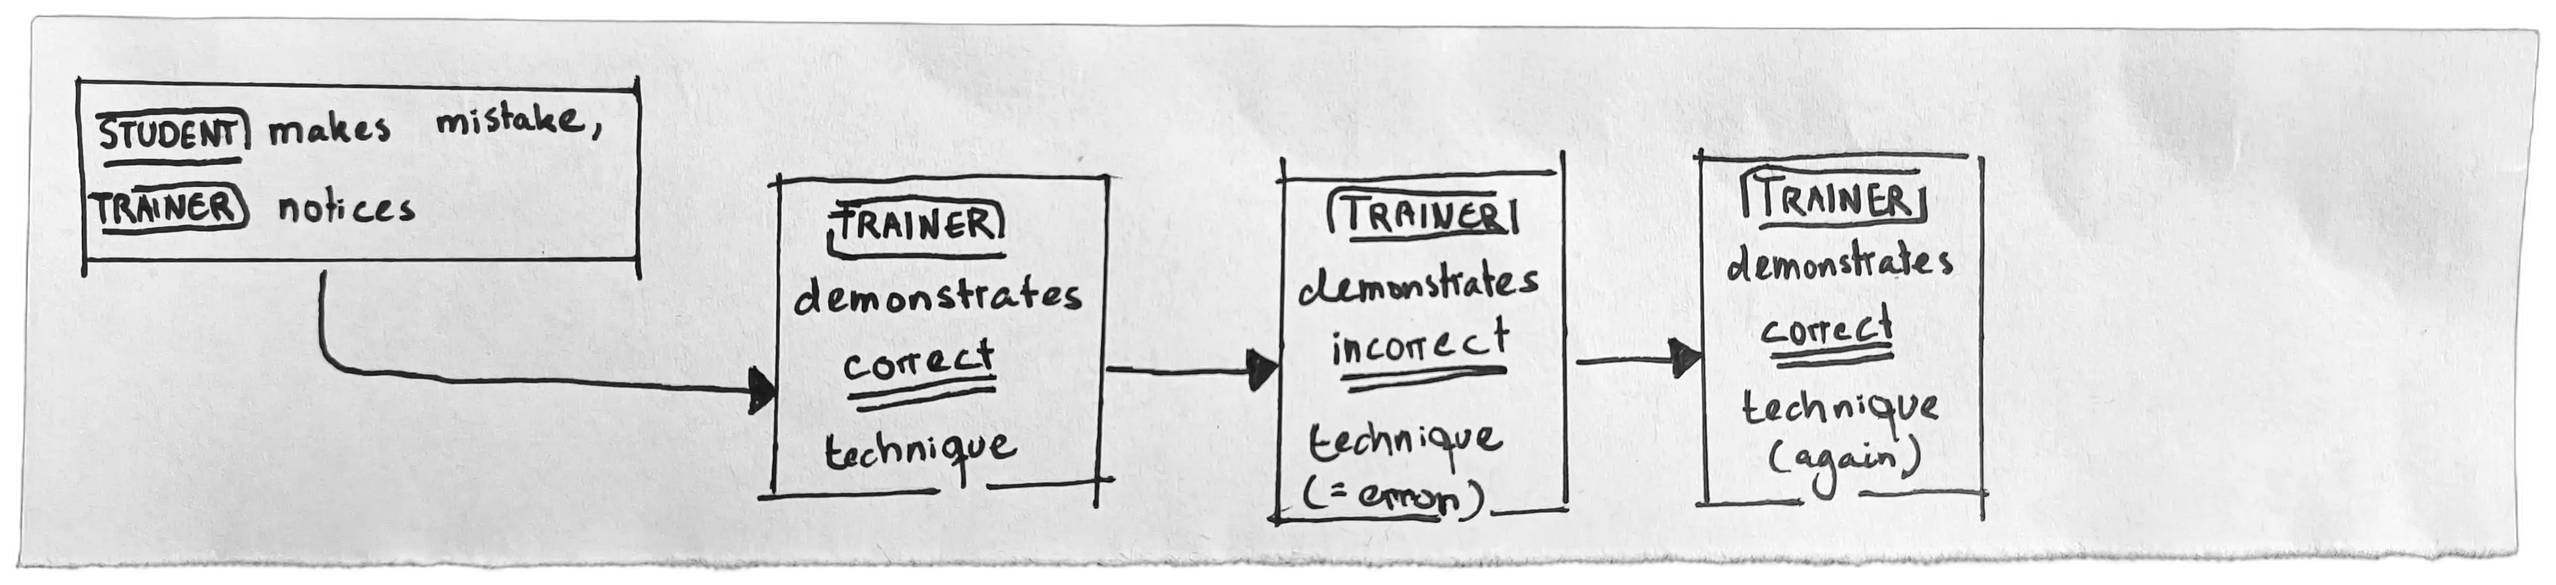
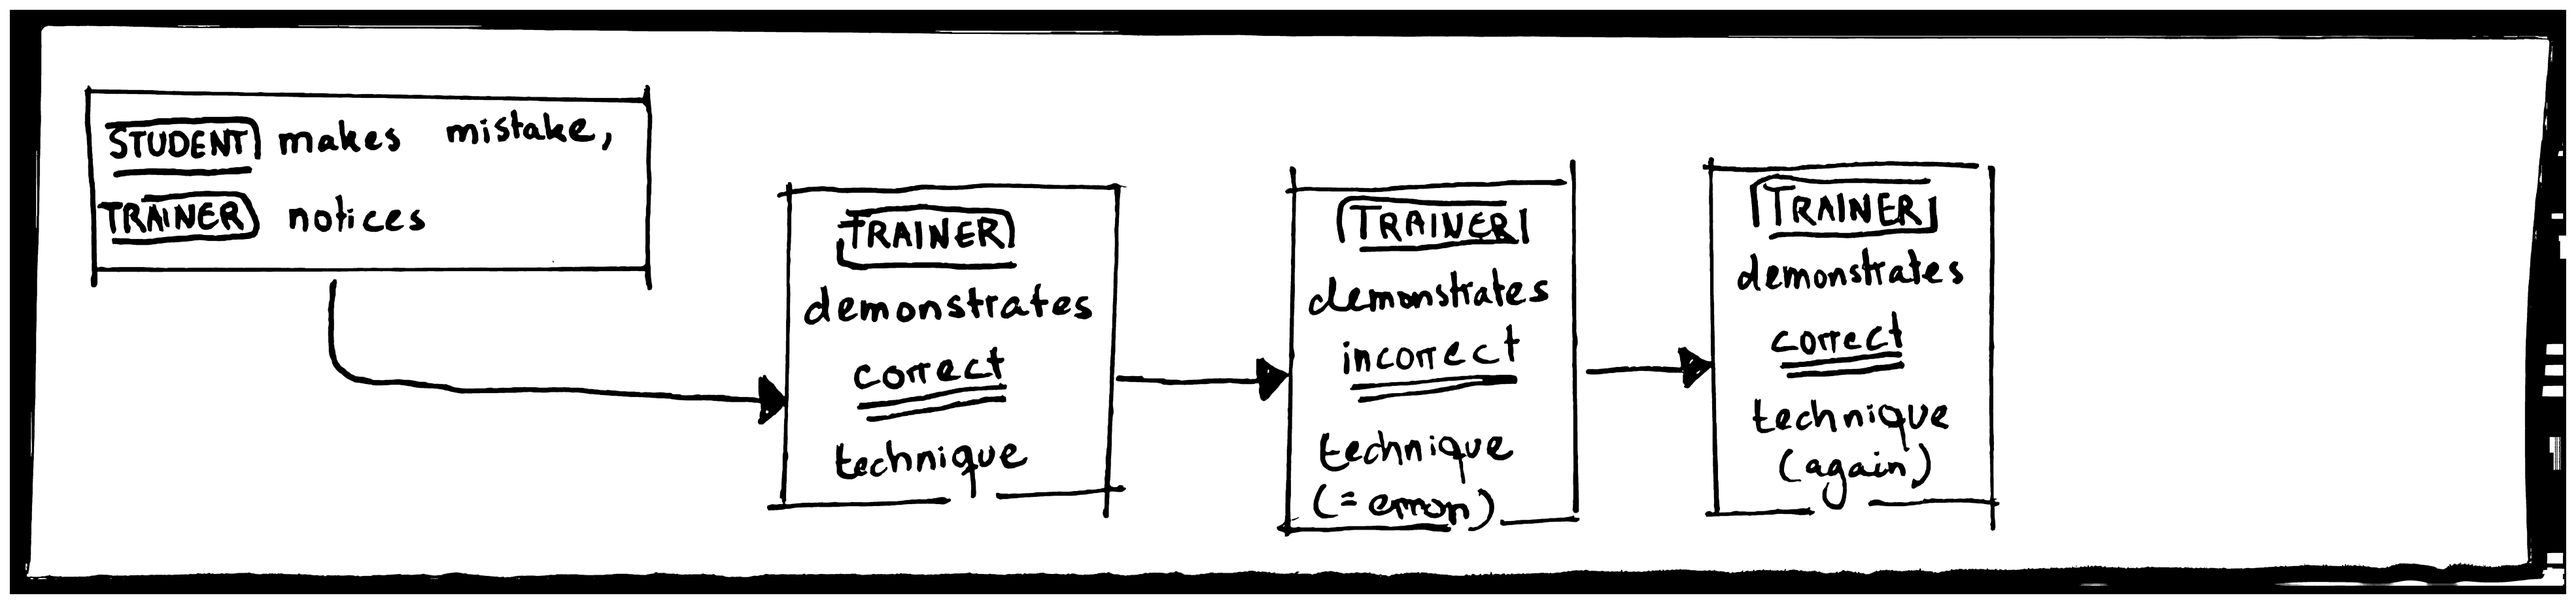
switch to binarize image style

diff --git a/cms/utils/process_images.py b/cms/utils/process_images.py
@@ -1,38 +1,52 @@
-"""Image pipeline: removes backgrounds from data/img_in/* and writes trimmed grayscale webp to data/loops/img/.
+# /// script
+# requires-python = ">=3.12"
+# dependencies = ["pillow", "numpy", "scikit-image"]
+# ///
+"""Image pipeline: binarizes data/img_in/* into black-ink-on-transparent webp in data/loops/img/.
 
-Requires `magick` (ImageMagick 7) on PATH; rembg is run via uvx.
+Ink is found with a Sauvola threshold on a 4× upscaled grayscale copy; the mask is downsampled
+back with antialiasing, trimmed to its content and given a uniform transparent border.
 Only inputs newer than their output are processed; --force regenerates everything.
 Usage: uv run utils/process_images.py [--force]
 """
 
-import subprocess
 import sys
-import tempfile
 from pathlib import Path
+
+import numpy as np
+from PIL import Image, ImageOps
+from skimage.filters import gaussian, threshold_sauvola
 
 ROOT = Path(__file__).resolve().parent.parent.parent
 INPUT_DIR = ROOT / "data" / "img_in"
 OUTPUT_DIR = ROOT / "data" / "loops" / "img"
 IMAGE_SUFFIXES = {".jpg", ".jpeg", ".png", ".webp"}
 BORDER_PX = 15
-
-REMBG = ["uvx", "--from", "rembg[cpu,cli]", "rembg"]
+UPSCALE = 4
 
 
 def process(src: Path, dst: Path) -> None:
-    with tempfile.TemporaryDirectory() as tmp:
-        cutout = Path(tmp) / "cutout.png"
-        subprocess.run([*REMBG, "i", str(src), str(cutout)], check=True)
-        subprocess.run(
-            [
-                "magick", str(cutout),
-                "-colorspace", "Gray",
-                "-trim", "+repage",
-                "-bordercolor", "none", "-border", str(BORDER_PX),
-                str(dst),
-            ],
-            check=True,
-        )
+    img = Image.open(src).convert("L")
+    w, h = img.size
+
+    # Threshold at higher resolution so the downsampled mask gets smooth, antialiased edges
+    big = img.resize((w * UPSCALE, h * UPSCALE), Image.Resampling.LANCZOS)
+    a = gaussian(np.asarray(big, dtype=np.float32) / 255.0, sigma=0.8)
+    threshold = threshold_sauvola(a, window_size=201, k=0.4)
+    ink = ((a <= threshold) * 255).astype(np.uint8)
+
+    alpha = Image.fromarray(ink).resize((w, h), Image.Resampling.LANCZOS)
+
+    # Crop surrounding whitespace, then set unified padding
+    bbox = alpha.getbbox()
+    if bbox:
+        alpha = alpha.crop(bbox)
+    alpha = ImageOps.expand(alpha, border=BORDER_PX, fill=0)
+
+    # Pure black ink, transparent background
+    out = Image.new("RGBA", alpha.size, (0, 0, 0, 0))
+    out.putalpha(alpha)
+    out.save(dst, "WEBP", lossless=True)
 
 
 def main() -> None:
